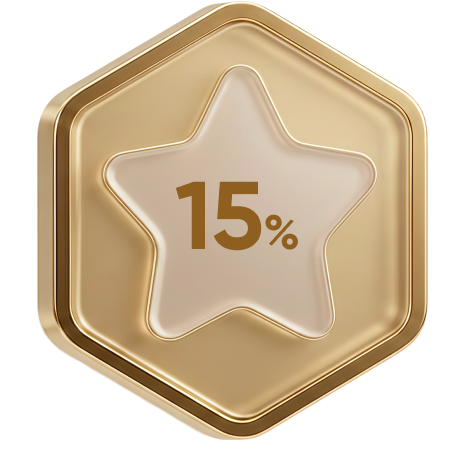
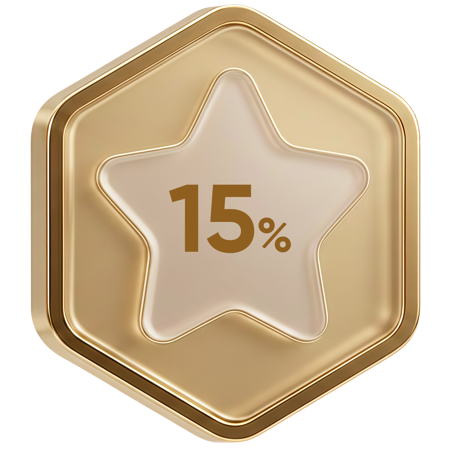
Новые картинки без подложки: медали, мониторинг, промо продажи
Дизайнер прислал исходники без фона — заменил выгрузки из кадров.

- Медали уровней: пять с процентом (456×456) в карточку уровня и пять
  без процента (160×160) в дорожку и список модалки — как и было
  по макету, процент под дорожкой печатается текстом.
- Герой «Мониторинга» — новый PNG вместо webp с прода, 1536×480.
- Промо «Снизили порог для продажи ЦВ» — одна картинка на фоне секции.
  В тёмной теме подложка промо красилась градиентом: правило
  :root[data-theme="dark"] .promo перебивало .plain, хотя фон этой
  секции должен быть просто цветом поверхности. Исключил .plain и .pbox.

diff --git a/src/styles/app.css b/src/styles/app.css
@@ -974,7 +974,10 @@ input:focus,input:focus-visible,select:focus,select:focus-visible,textarea:focus
 .tbl th .paico{margin-right:4px;max-height:none;line-height:0}
 .tbl th .paico svg{width:24px;height:24px}
 /* тёмная тема: точечные доводки блоков с собственной заливкой */
-:root[data-theme="dark"] .promo{background:linear-gradient(135deg,#312e81,#1e1b4b)}
+/* Тёмная подложка — только у баннеров с картинкой-фоном. Промо «Снизили
+   порог» и плитка Промбокса красят фон сами: у первого это цвет секции,
+   у второй — фирменный синий. */
+:root[data-theme="dark"] .promo:not(.plain):not(.pbox){background:linear-gradient(135deg,#312e81,#1e1b4b)}
 :root[data-theme="dark"] .tag.g{color:#4ade80}
 :root[data-theme="dark"] .tag.r{color:#f87171}
 :root[data-theme="dark"] .tag.y{color:#fbbf24}

diff --git a/src/legacy/prototype.js b/src/legacy/prototype.js
@@ -2039,7 +2039,7 @@ ${card(`<div class="monhero">
   <p>Раздел личного кабинета, где вы в реальном времени отслеживаете состояние оборудования
     и доходность. Все ключевые данные собраны в одном месте, без сложных настроек</p>
   <button class="btn" data-toast="Заявка отправлена — мы свяжемся с вами">Получить предложение</button>
-  <img class="monart" src="${A}monitoring-hero.webp" alt="" width="2000" height="656">
+  <img class="monart" src="${A}monitoring-hero.png" alt="" width="1536" height="480">
 </div>`)}
 ${card(MON_SECS.map(([t,xs],i)=>`${i?'<div class="hr"></div>':''}
   <div class="monsec"><h3>${t}</h3>

diff --git a/docs/audit-assets.md b/docs/audit-assets.md
@@ -256,3 +256,23 @@
 
 Проверка новых картинок: `node scripts/unmatte.mjs --check public/*.png` —
 покажет, сколько углов у каждой залито белым.
+
+## Картинки от дизайнера вместо выгрузок из кадра
+
+Медали уровней, иллюстрация мониторинга и промо продажи заменены на
+исходники без подложки, присланные дизайнером:
+
+| Что | Файл | Размер |
+|---|---|---|
+| Медали с процентом (крупная в карточке уровня) | `tier-5…25.png` | 456×456 |
+| Медали без процента (дорожка уровней и список в модалке) | `tier-5-s…25-s.png` | 160×160 |
+| Промо «Снизили порог для продажи ЦВ» | `promo-sell.png` | 372×340 |
+| Герой раздела «Мониторинг» | `monitoring-hero.png` (был `.webp` с прода) | 1536×480 |
+
+Исходники приходят 1580×1580, в репозиторий кладём уменьшенные —
+`sips -Z 456 исходник.png --out public/tier-5.png`.
+
+Промо «Снизили порог» рисуется без собственного фона: цвет берётся от секции
+(`.promo.plain{background:var(--surface)}`), поэтому в тёмной теме подложка
+не красится градиентом — правило `:root[data-theme="dark"] .promo` исключает
+`.plain` и `.pbox`.
